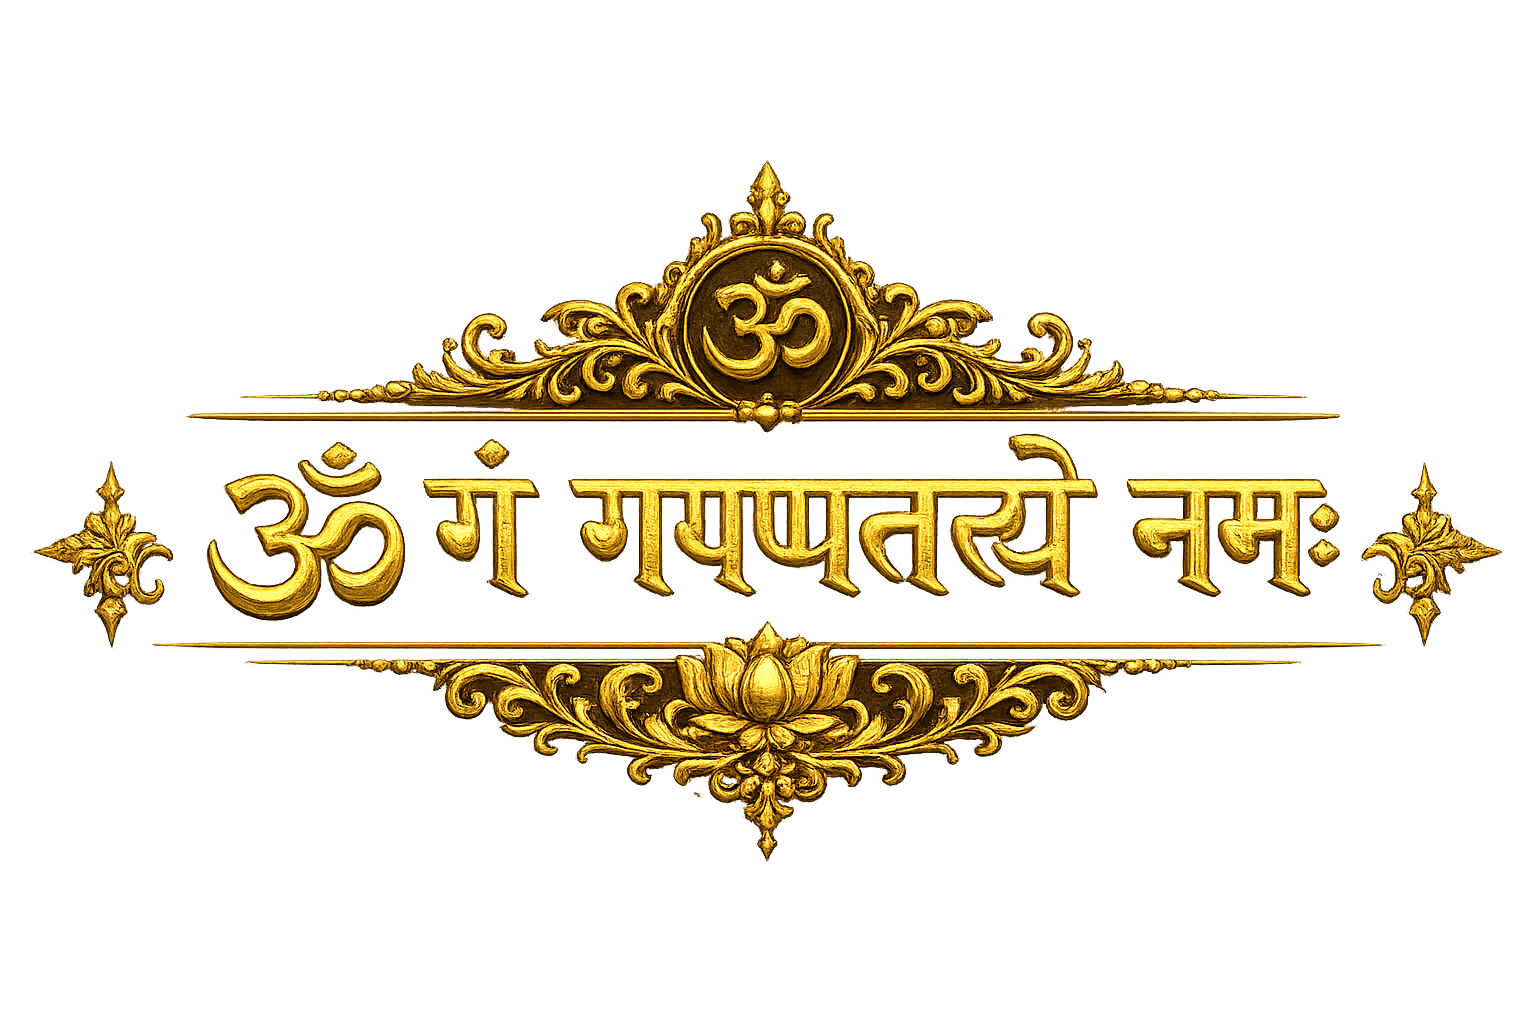
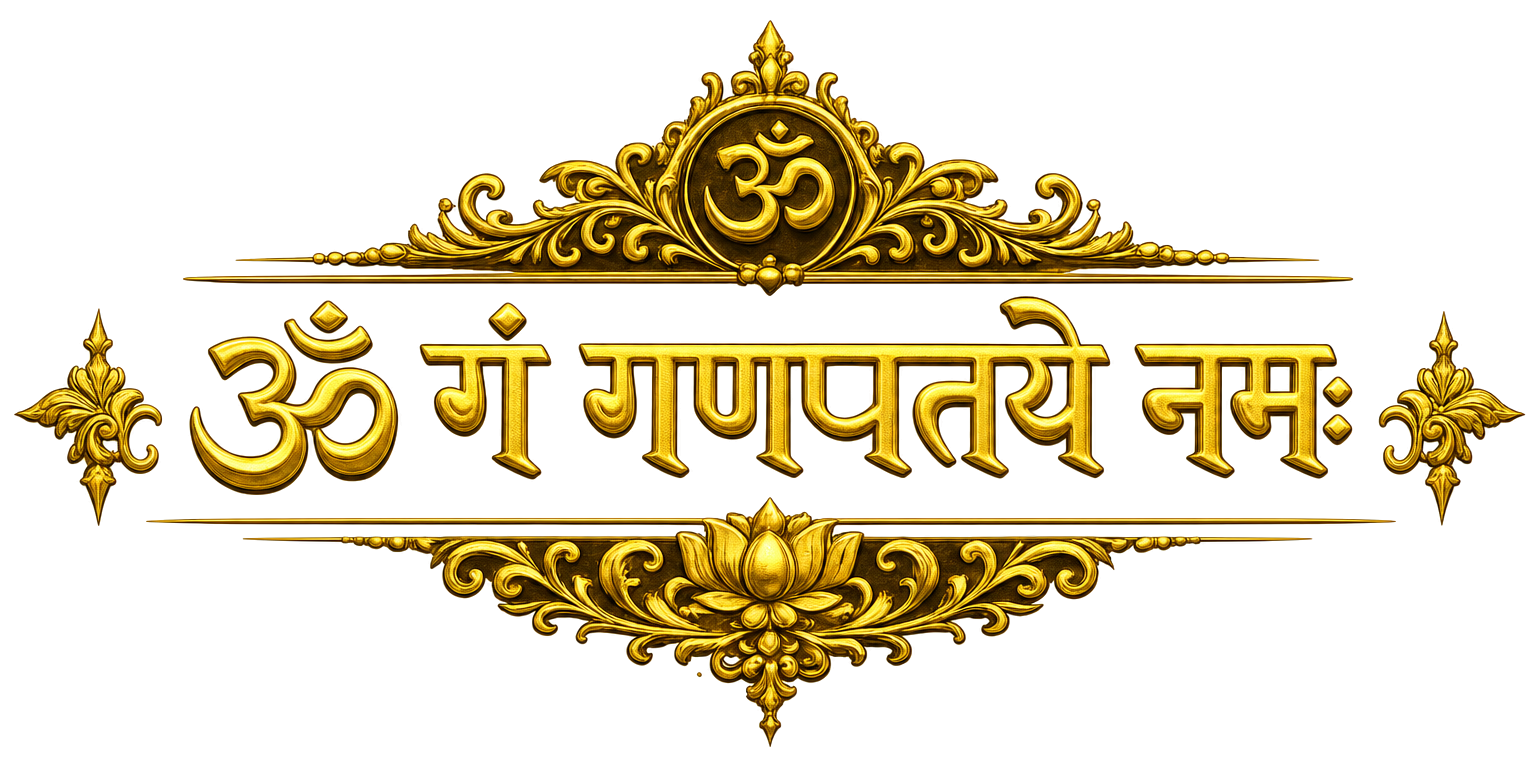
Refresh splash mantra overlay with recreated gold title.
Replace the Ganapati title graphic with a clearer ॐ गं गणपतये नमः banner and size it cleanly over the splash video.

diff --git a/styles.css b/styles.css
@@ -330,7 +330,11 @@ html.skip-splash .splash {
   z-index: 10;
 }
 
-.mantra-img { width: 160px; display: block; }
+.mantra-img {
+  width: min(86vw, 320px);
+  height: auto;
+  display: block;
+}
 
 .royal-image-btn {
   position: absolute;
@@ -1632,7 +1636,7 @@ html.skip-splash .splash {
    MOBILE
 ========================================================= */
 @media (max-width: 768px) {
-  .mantra-img { width: 110px; }
+  .mantra-img { width: min(88vw, 240px); }
   .button-frame-img { width: 320px; }
   .button-text { font-size: 1.2rem; }
   .splash-sound-wrap { top: 16px; right: 16px; }

diff --git a/index.html b/index.html
@@ -17,7 +17,7 @@
   <link rel="preconnect" href="https://fonts.gstatic.com" crossorigin>
   <link href="https://fonts.googleapis.com/css2?family=Cormorant+Garamond:wght@400;500;600;700&family=Cinzel:wght@400;500;600;700&family=Cinzel+Decorative:wght@400;700&family=Parisienne&family=Playfair+Display:wght@500;600&family=Noto+Serif+Telugu:wght@400;500;600;700&display=swap" rel="stylesheet">
 
-  <link rel="stylesheet" href="styles.css?v=38"/>
+  <link rel="stylesheet" href="styles.css?v=39"/>
 </head>
 <body>
 
@@ -42,7 +42,7 @@
 
   <div class="splash-content">
     <div class="mantra-wrapper">
-      <img src="om-ganapati.png" class="mantra-img" alt="Om Ganapataye Namah">
+      <img src="om-ganapati.png?v=3" class="mantra-img" alt="ॐ गं गणपतये नमः">
     </div>
 
     <button id="enterBtn" class="royal-image-btn">

diff --git a/events.html b/events.html
@@ -7,7 +7,7 @@
   <link rel="preconnect" href="https://fonts.googleapis.com">
   <link rel="preconnect" href="https://fonts.gstatic.com" crossorigin>
   <link href="https://fonts.googleapis.com/css2?family=Cormorant+Garamond:wght@400;500;600;700&family=Cinzel:wght@400;500;600;700&family=Cinzel+Decorative:wght@400;700&family=Parisienne&family=Playfair+Display:wght@500;600&family=Noto+Serif+Telugu:wght@400;500;600;700&display=swap" rel="stylesheet">
-  <link rel="stylesheet" href="styles.css?v=38"/>
+  <link rel="stylesheet" href="styles.css?v=39"/>
 </head>
 <body>
 

diff --git a/gift-registry.html b/gift-registry.html
@@ -7,7 +7,7 @@
   <link rel="preconnect" href="https://fonts.googleapis.com">
   <link rel="preconnect" href="https://fonts.gstatic.com" crossorigin>
   <link href="https://fonts.googleapis.com/css2?family=Cormorant+Garamond:wght@400;500;600;700&family=Cinzel:wght@400;500;600;700&family=Cinzel+Decorative:wght@400;700&family=Parisienne&family=Playfair+Display:wght@500;600&family=Noto+Serif+Telugu:wght@400;500;600;700&display=swap" rel="stylesheet">
-  <link rel="stylesheet" href="styles.css?v=38"/>
+  <link rel="stylesheet" href="styles.css?v=39"/>
 </head>
 <body>
 

diff --git a/our-story.html b/our-story.html
@@ -7,7 +7,7 @@
   <link rel="preconnect" href="https://fonts.googleapis.com">
   <link rel="preconnect" href="https://fonts.gstatic.com" crossorigin>
   <link href="https://fonts.googleapis.com/css2?family=Cormorant+Garamond:wght@400;500;600;700&family=Cinzel:wght@400;500;600;700&family=Cinzel+Decorative:wght@400;700&family=Parisienne&family=Playfair+Display:wght@500;600&display=swap" rel="stylesheet">
-  <link rel="stylesheet" href="styles.css?v=38"/>
+  <link rel="stylesheet" href="styles.css?v=39"/>
 </head>
 <body>
 

diff --git a/rsvp.html b/rsvp.html
@@ -7,7 +7,7 @@
   <link rel="preconnect" href="https://fonts.googleapis.com">
   <link rel="preconnect" href="https://fonts.gstatic.com" crossorigin>
   <link href="https://fonts.googleapis.com/css2?family=Cormorant+Garamond:wght@400;500;600;700&family=Cinzel:wght@400;500;600;700&family=Cinzel+Decorative:wght@400;700&family=Parisienne&family=Playfair+Display:wght@500;600&display=swap" rel="stylesheet">
-  <link rel="stylesheet" href="styles.css?v=38"/>
+  <link rel="stylesheet" href="styles.css?v=39"/>
 </head>
 <body>
 